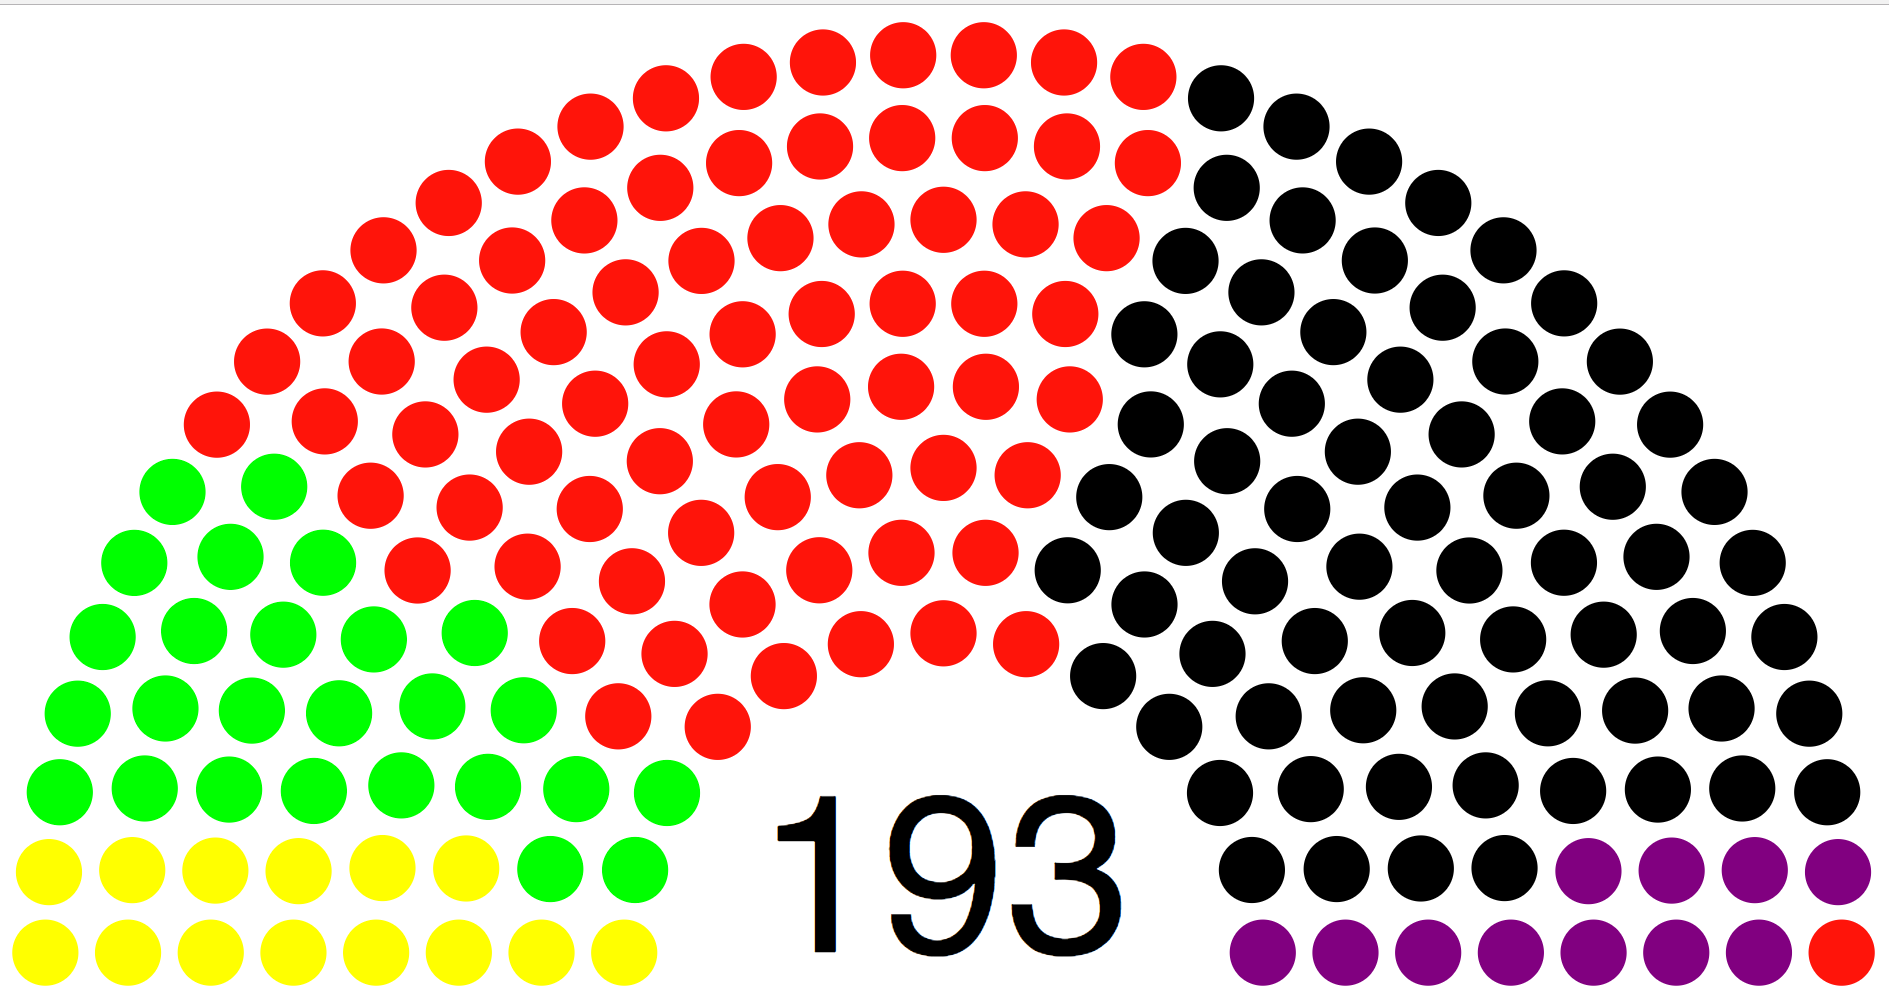
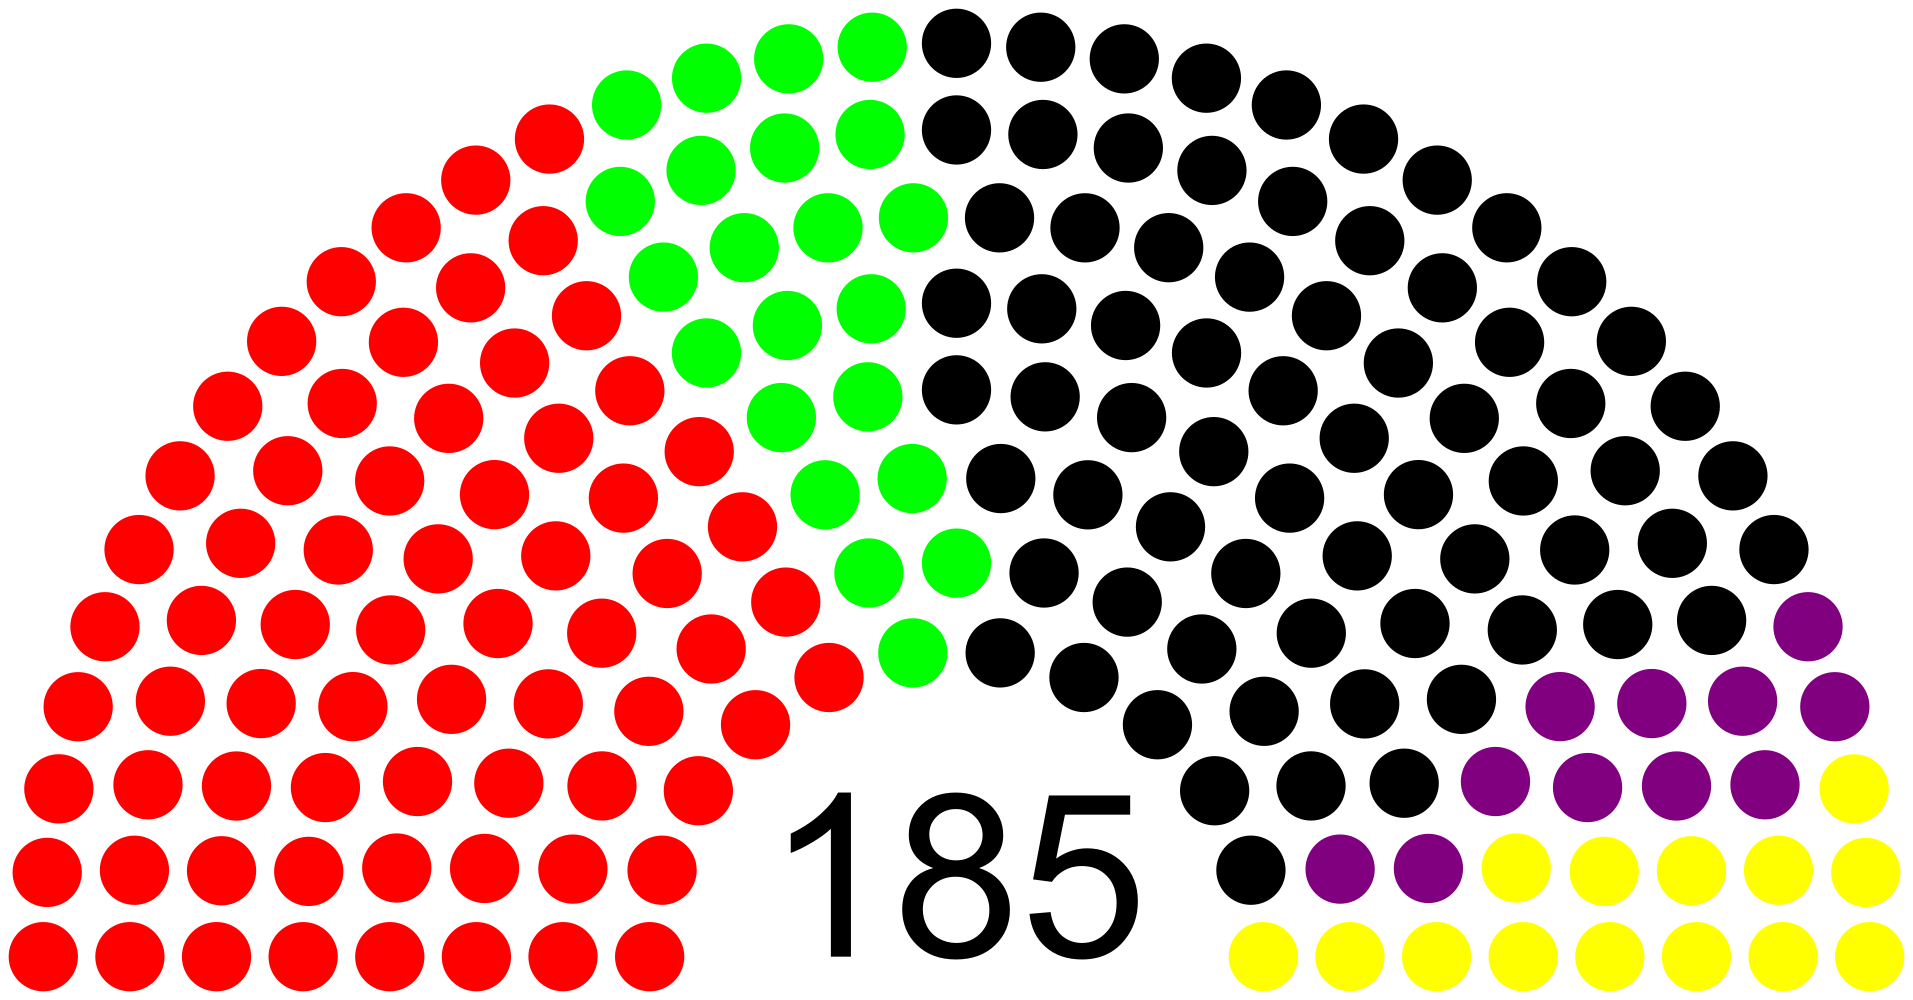
Use 'parliamentary group' (P4100) instead of 'political party' (P102)
+Adapt examples accordingly

diff --git a/app/app.js b/app/app.js
@@ -47,11 +47,14 @@ function showList(parties) {
 const init = () => {
     const values = getValuesFromurl();
     if (!values.parliament || !values.term ){
-        const exampleUrl = `${window.location.origin}/?parliament=Q1939555&term=Q15081430`;
+        const exampleBundestagUrl = `${window.location.origin}/?parliament=Q1939555&term=Q30579723`;
+        const exampleBelgiumUrl = `${window.location.origin}/?parliament=Q15705021&term=Q17173094`;
 
-        document.write(`Please add the URL-Parameters <code>parliament</code> and <code>term</code> to the url <br />
-                        an example for the current 18th Bundestag would be‸= ""
-                        <code><a href="${exampleUrl}">${exampleUrl}</a></code>.
+        document.write(`Please add the URL-Parameters <code>parliament</code> and <code>term</code> to the url.<br />
+                        An example for the 19th Bundestag would be‸= ""
+                        <code><a href="${exampleBundestagUrl}">${exampleBundestagUrl}</a></code>.<br/>
+                        Another example for the 54th Chamber of Representatives of Belgium would be =
+                        <code><a href="${exampleBelgiumUrl}">${exampleBelgiumUrl}</a></code>.<br/>
                         <h2> More Example for Nordrhein-Westfalen</h2>`)
 
         getNRW().then(results => {

diff --git a/app/api.js b/app/api.js
@@ -3,10 +3,9 @@ const getData = (parliament, term) => {
 SELECT ?partyLabel ?rgb ?party (COUNT(*) as ?count)
 WHERE
 {
-	?item wdt:P39 wd:${parliament} .
-    ?item p:P39 ?membership . 
-    ?membership pq:P2937 wd:${term} .
-    ?item wdt:P102 ?party .
+    ?item p:P39 ?statement .
+    ?statement ps:P39 wd:${parliament} ; pq:P2937 wd:${term} .
+    ?statement pq:P4100 ?party .
     ?party wdt:P462 ?color .
     ?color wdt:P465 ?rgb . 
     
@@ -40,6 +39,7 @@ SELECT ?period ?periodLabel ?number WHERE {
   ?period p:P31 ?thing .
   ?thing pq:P642 wd:Q571436.
   ?thing pq:P1545 ?number .
+  FILTER(xsd:integer(?number) >= 14 && xsd:integer(?number) <= 15). # the others terms are filtered out as they are not complete enough
   SERVICE wikibase:label { bd:serviceParam wikibase:language "de,en" }
 }
 ORDER BY xsd:integer(?number)
